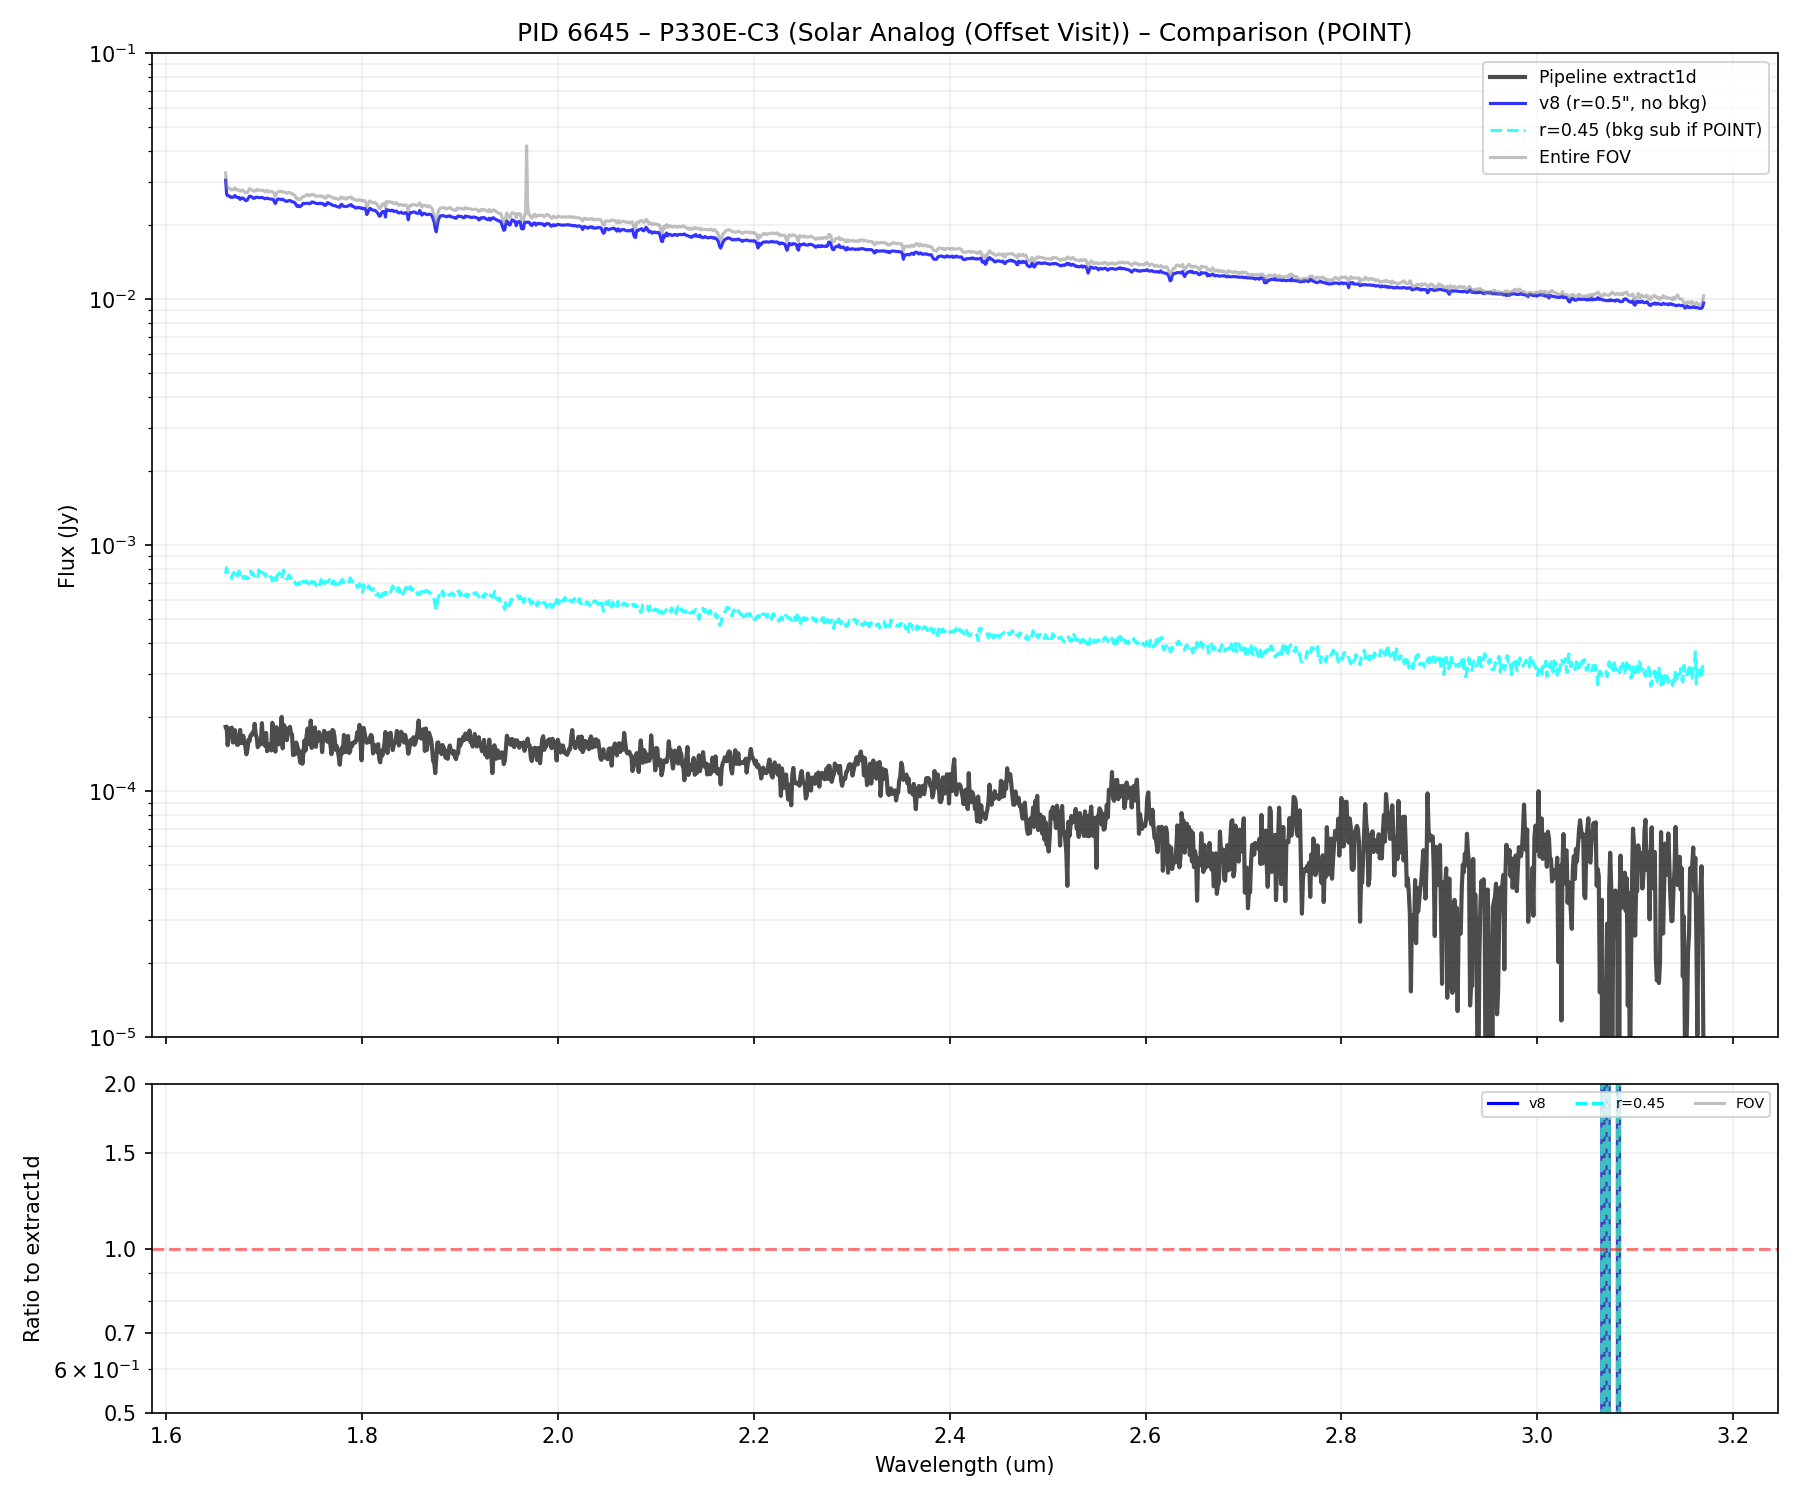
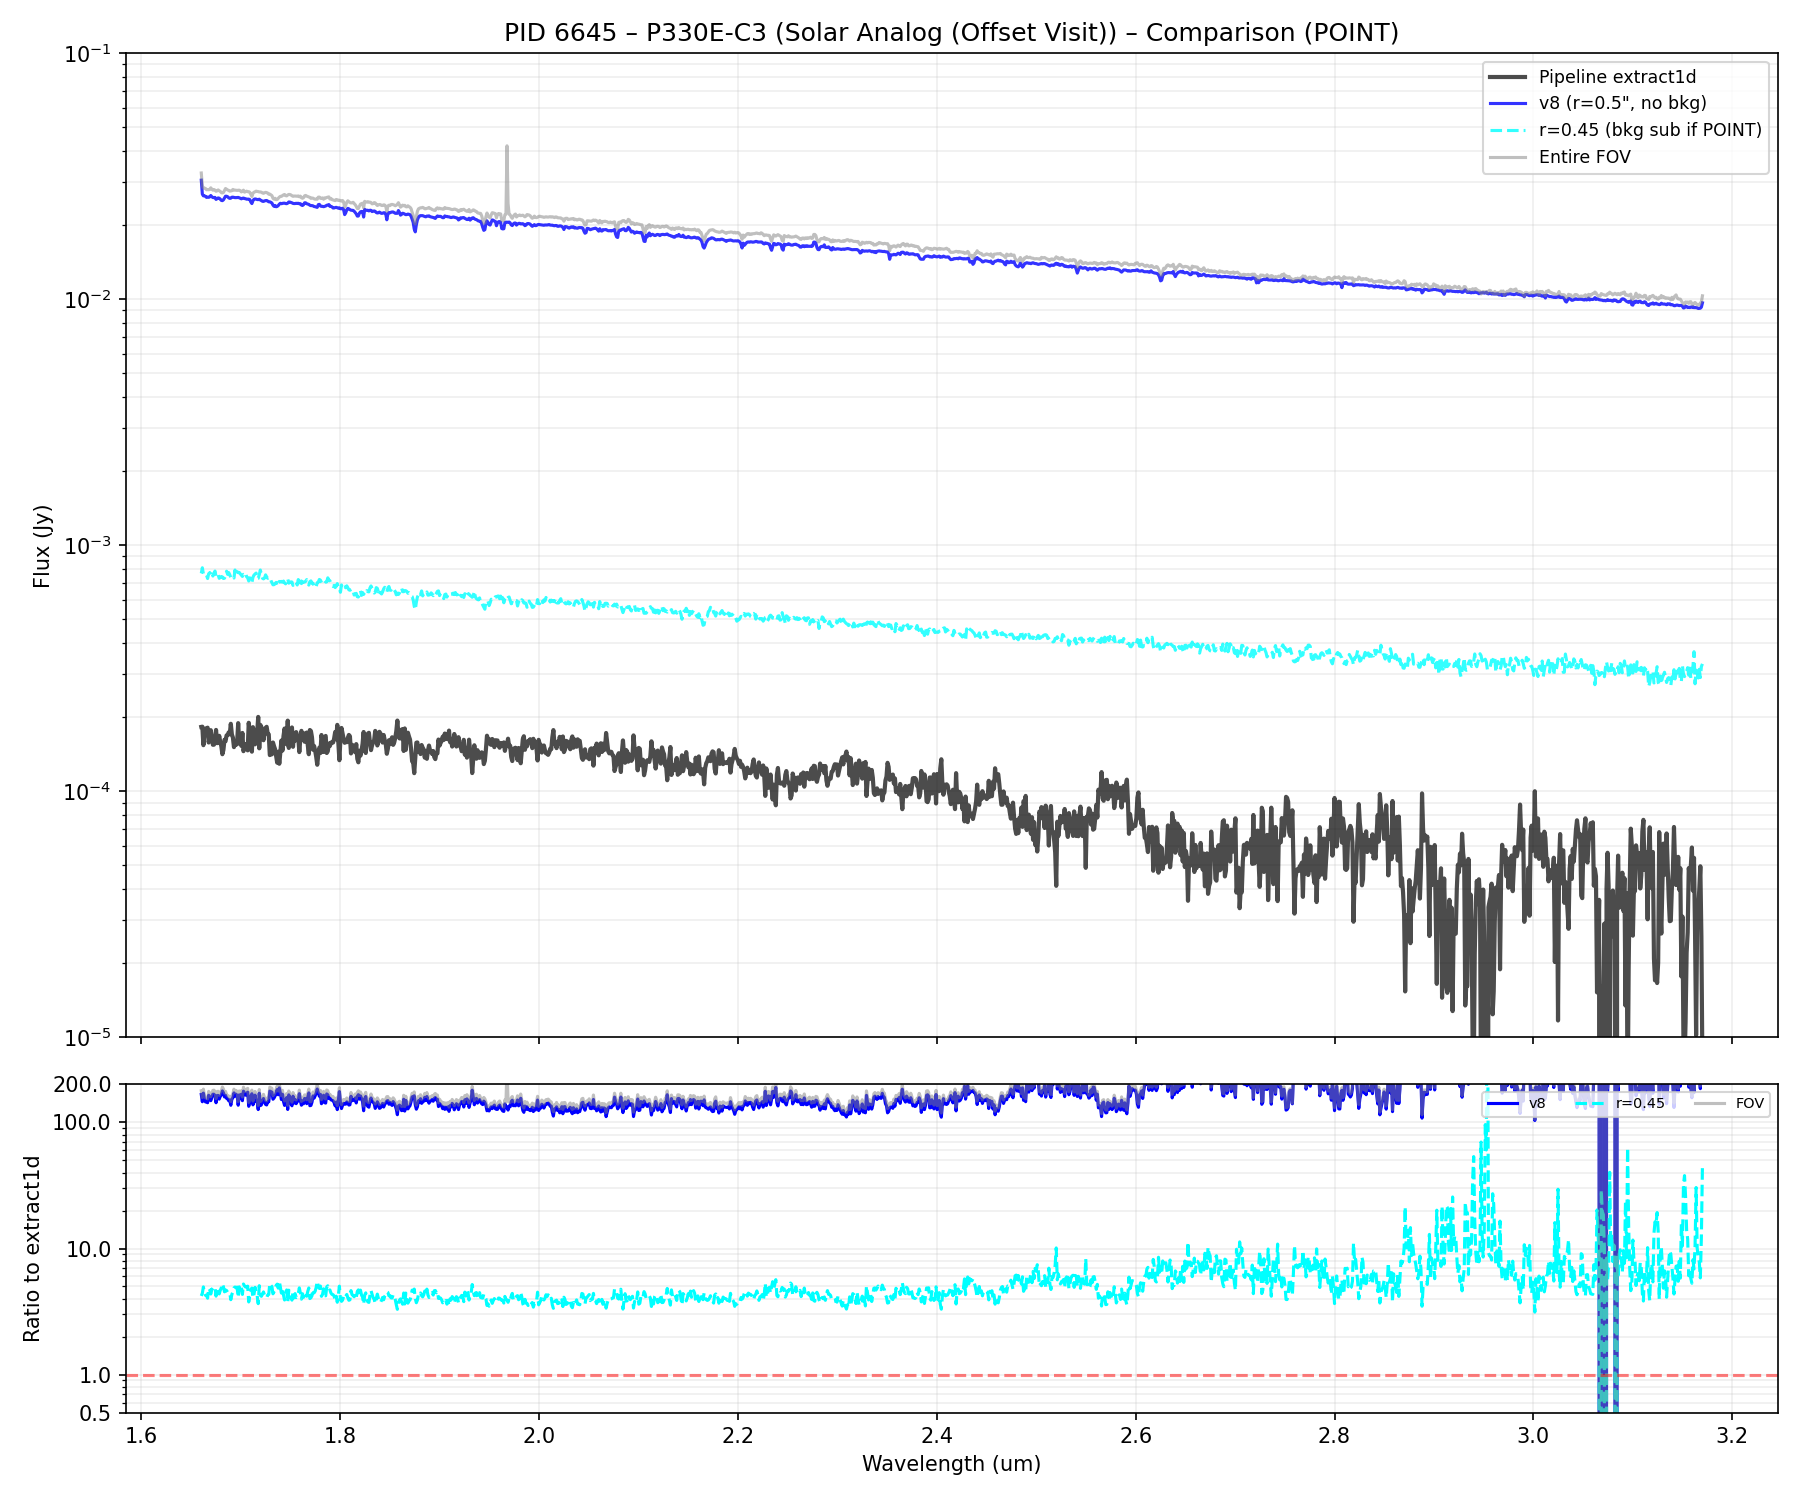
Fixed PID 6645 ratio scaling in IFU extraction baseline plots.

diff --git a/reports/v8/ifu_v8/extractions_all_ifu_v8/extractions_all_ifu_v8.py b/reports/v8/ifu_v8/extractions_all_ifu_v8/extractions_all_ifu_v8.py
@@ -165,10 +165,16 @@ def plot_target(target, results):
     ax2.set_yscale('log')
     ax2.set_ylabel("Ratio to extract1d")
     ax2.set_xlabel("Wavelength (um)")
-    ax2.set_ylim(0.5, 2.0)
+    if target['pid'] == '6645':
+        ax2.set_ylim(0.5, 200.0)
+    else:
+        ax2.set_ylim(0.5, 2.0)
     from matplotlib.ticker import ScalarFormatter
     ax2.yaxis.set_major_formatter(ScalarFormatter())
-    ax2.set_yticks([0.5, 0.7, 1.0, 1.5, 2.0])
+    if target['pid'] == '6645':
+        ax2.set_yticks([0.5, 1, 10, 100, 200])
+    else:
+        ax2.set_yticks([0.5, 0.7, 1.0, 1.5, 2.0])
     ax2.grid(True, which='both', alpha=0.2)
     ax2.legend(loc='upper right', ncol=3, fontsize='x-small')
     
